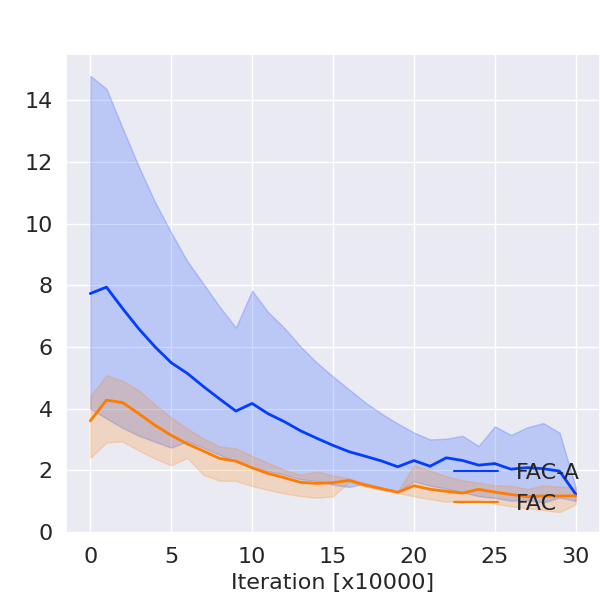
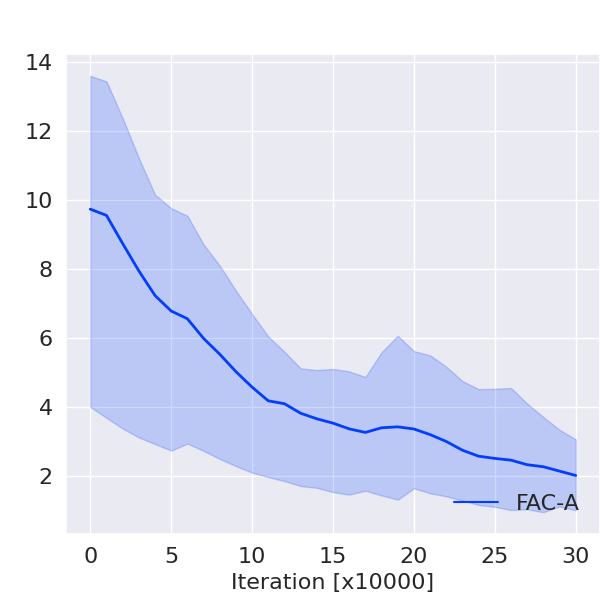
add data

diff --git a/train_scripts/train_script4fsac.py b/train_scripts/train_script4fsac.py
@@ -81,7 +81,7 @@ def built_FSAC_parser(alg_name):
             parser.add_argument("-" + key, default=val)
         return parser.parse_args()
 
-    parser.add_argument('--motivation', type=str, default='reduce buffer size')  # training testing
+    parser.add_argument('--motivation', type=str, default='change obstacle range')  # training testing
 
     # trainer
     parser.add_argument('--policy_type', type=str, default='PolicyWithAdaSafetyIndex')
@@ -90,7 +90,7 @@ def built_FSAC_parser(alg_name):
     parser.add_argument('--buffer_type', type=str, default='cost')
     parser.add_argument('--optimizer_type', type=str, default='OffPolicyAsyncWithCost')
     parser.add_argument('--off_policy', type=str, default=True)
-    parser.add_argument('--random_seed', type=int, default=2)
+    parser.add_argument('--random_seed', type=int, default=4)
     parser.add_argument('--penalty_start', type=int, default=0)
     parser.add_argument('--demo', type=bool, default=False)
 
@@ -112,8 +112,8 @@ def built_FSAC_parser(alg_name):
     parser.add_argument('--double_QC', type=bool, default=False)
     parser.add_argument('--adaptive_safety_index', type=bool, default=True)
     parser.add_argument('--adaptive_si_start', type=int, default=100000)
-    parser.add_argument('--adaptive_si_interval', type=int, default=50)
-    parser.add_argument('--init_sis_paras', type=list, default=[0.3, 1.0, 2.0]) # # margin, k, power
+    parser.add_argument('--adaptive_si_interval', type=int, default=24)
+    parser.add_argument('--init_sis_paras', type=list, default=[0.3, 1.0, 1.0]) # # margin, k, power
 
     # worker
     parser.add_argument('--batch_size', type=int, default=128)
@@ -121,7 +121,7 @@ def built_FSAC_parser(alg_name):
     parser.add_argument('--explore_sigma', type=float, default=None)
 
     # buffer
-    parser.add_argument('--max_buffer_size', type=int, default=50000)
+    parser.add_argument('--max_buffer_size', type=int, default=500000)
     parser.add_argument('--replay_starts', type=int, default=3000)
     parser.add_argument('--replay_batch_size', type=int, default=256)
     parser.add_argument('--replay_alpha', type=float, default=0.6)
@@ -157,7 +157,7 @@ def built_FSAC_parser(alg_name):
     if alpha == 'auto':
         parser.add_argument('--target_entropy', type=float, default=-2)
     parser.add_argument('--alpha_lr_schedule', type=list, default=[8e-5, 2000000, 8e-6])
-    parser.add_argument('--k_lr_schedule', type=list, default=[2e-5, 100000, 1e-6])
+    parser.add_argument('--k_lr_schedule', type=list, default=[8e-6, 100000, 1e-6])
     parser.add_argument('--policy_only', type=bool, default=False)
     parser.add_argument('--double_Q', type=bool, default=True)
     parser.add_argument('--target', type=bool, default=True)
@@ -180,13 +180,13 @@ def built_FSAC_parser(alg_name):
 
     # Optimizer (PABAL)
     parser.add_argument('--max_sampled_steps', type=int, default=0)
-    parser.add_argument('--max_iter', type=int, default=300000)
+    parser.add_argument('--max_iter', type=int, default=600000)
     parser.add_argument('--num_workers', type=int, default=NUM_WORKER)
     parser.add_argument('--num_learners', type=int, default=NUM_LEARNER)
     parser.add_argument('--num_buffers', type=int, default=NUM_BUFFER)
     parser.add_argument('--max_weight_sync_delay', type=int, default=300)
     parser.add_argument('--grads_queue_size', type=int, default=25)
-    parser.add_argument('--grads_max_reuse', type=int, default=2)
+    parser.add_argument('--grads_max_reuse', type=int, default=0)
     parser.add_argument('--eval_interval', type=int, default=10000) # 1000
     parser.add_argument('--save_interval', type=int, default=200000) # 200000
     parser.add_argument('--log_interval', type=int, default=100) # 100

diff --git a/data_process/lineplot.py b/data_process/lineplot.py
@@ -19,13 +19,13 @@ DIV_LINE_WIDTH = 50
 txt_store_alg_list = ['CPO', 'PPO-Lagrangian']
 
 def help_func():
-    tag2plot = ['episode_return'] # , 'safety_index_margin', 'safety_index_power'
-    alg_list = [ 'FSAC-A', 'SACL', 'FSAC',] # 'SACL', 'FSAC',
-    lbs = [  'FAC-A', 'SACL', 'FAC', ] # 'SAC', 'SACL', 'FAC',  'margin', 'power'
+    tag2plot = ['num_sampled_steps'] # , 'safety_index_margin', 'safety_index_power'
+    alg_list = [ 'FSAC-A', ] # 'SACL', 'FSAC',
+    lbs = [  'FAC-A',  ] # 'SAC', 'SACL', 'FAC',  'margin', 'power'
     task = ['Unicycle']
     palette = "bright"
     goal_perf_list = [-200, -100, -50, -30, -20, -10, -5]
-    dir_str = '../results/{}/{}/data2plot' # .format(algo name) # /data2plot
+    dir_str = '../results/{}/{}/data2plot2' # .format(algo name) # /data2plot
     return tag2plot, alg_list, task, lbs, palette, goal_perf_list, dir_str
 
 def plot_eval_results_of_all_alg_n_runs(dirs_dict_for_plot=None):
@@ -43,7 +43,7 @@ def plot_eval_results_of_all_alg_n_runs(dirs_dict_for_plot=None):
                     print(eval_dir)
                     df_in_one_run_of_one_alg = get_datasets(eval_dir, tag2plot, alg=alg, num_run=num_run)
                 else:
-                    eval_dir = data2plot_dir + '/' + dir + '/logs/evaluator'
+                    eval_dir = data2plot_dir + '/' + dir + '/logs/optimizer'
                     print(eval_dir)
                     eval_file = os.path.join(eval_dir,
                                              [file_name for file_name in os.listdir(eval_dir) if file_name.startswith('events')][0])
@@ -58,7 +58,7 @@ def plot_eval_results_of_all_alg_n_runs(dirs_dict_for_plot=None):
                         for v in event.summary.value:
                             t = tf.make_ndarray(v.tensor)
                             for tag in tag2plot:
-                                if tag == v.tag[11:]: # evaluator:11, 31:(optimizer/learner_stats/scalar/)
+                                if tag == v.tag[10:]: # evaluator:11, 31:(optimizer/learner_stats/scalar/)
                                     data_in_one_run_of_one_alg[tag].append((1-SMOOTHFACTOR)*data_in_one_run_of_one_alg[tag][-1] + SMOOTHFACTOR*float(t)
                                                                            if data_in_one_run_of_one_alg[tag] else float(t))
                                     data_in_one_run_of_one_alg['iteration'].append(int(step))
@@ -96,6 +96,7 @@ def plot_eval_results_of_all_alg_n_runs(dirs_dict_for_plot=None):
             name = 'sis_para'
             fig_name = '../data_process/figure/' + task + '-' + name + '_n.png'
         plt.savefig(fig_name)
+        total_dataframe.to_csv('./other_data/optimizer.csv')
         # allresults = {}
         # results2print = {}
         #
